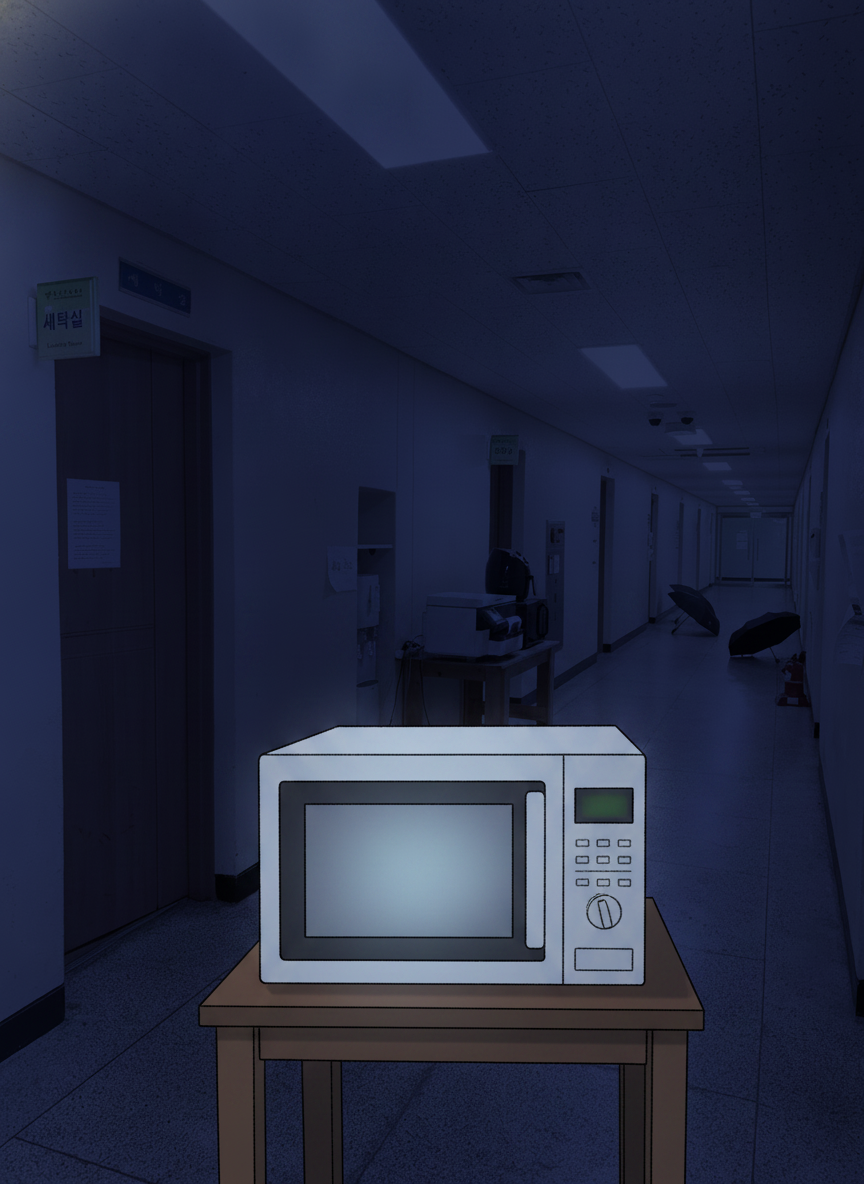
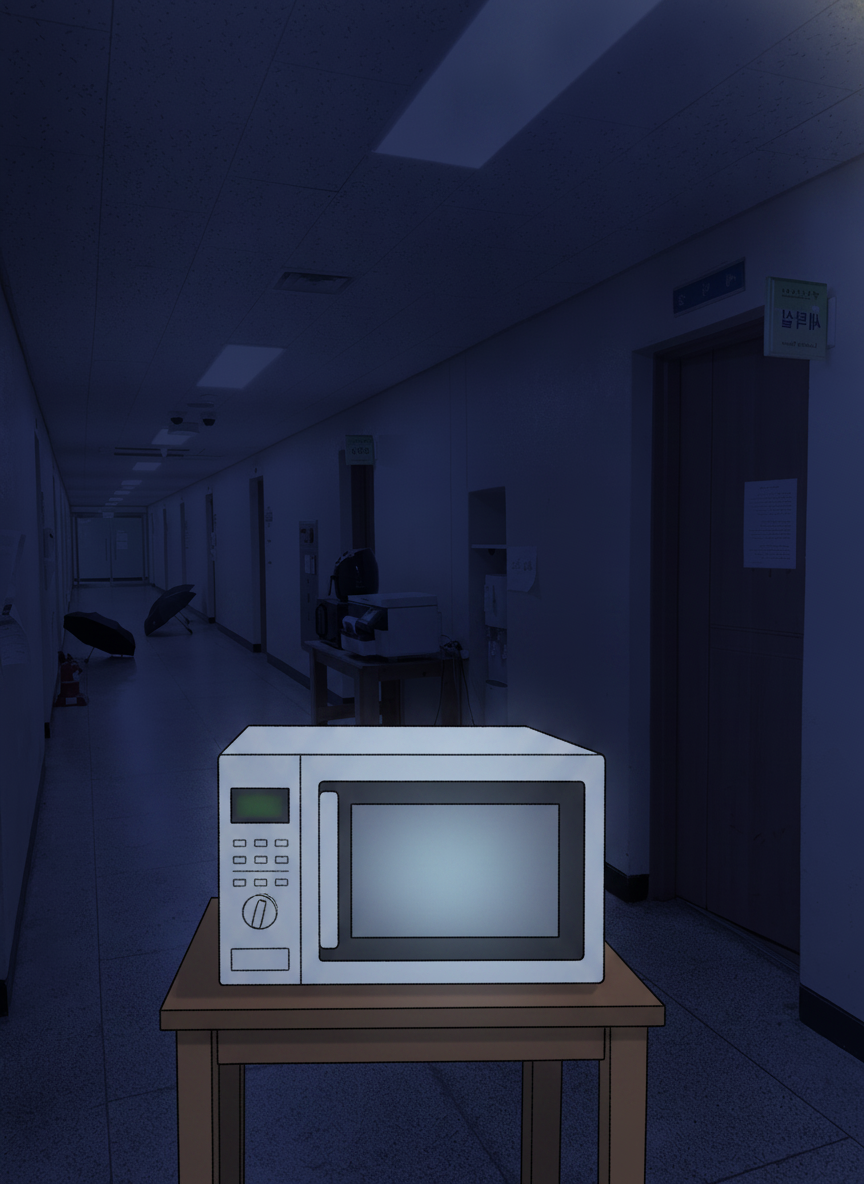
발끝 뜸 현상 수정·문 안쪽 열림·후배 선경례·전자레인지 복도 반전·카톡 장문 표시
캐릭터가 그림자 위로 떠 있던 버그 (전 씬 영향)
- 선 자세 기준으로 배율을 고정하면서 스프라이트 origin이 중앙(0.5, 0.6)이라,
  키가 짧은 포즈일수록 밑변이 올라가 발이 그림자 위에 떴다.
- origin을 **밑변(0.5, 1)** 으로 바꾸고 바닥선(FOOT_Y)에 붙였다 —
  어떤 배율·어떤 포즈여도 발끝이 그림자에 정확히 온다. 견장 좌표도 같은 기준으로 환산.

복도(Q2)
- 문이 **방 안쪽으로** 열린다: 경첩(복도 안쪽 모서리)에서 어두운 실내가 벌어졌다 닫힌다.
  복도 쪽으로 젖혀지면 사람이 나올 길을 막는 꼴이었다.
- 후배 경례를 여정 92% → **50%** 지점으로 앞당겨 내가 받아줄 시간을 준다.
- 후배가 경례하기 전에 내가 먼저 응대하면 쪽팔림 — 하트 차감.

전자레인지(Q3)
- 복도 배경을 **좌우반전**하고 좌표를 전부 뒤집었다. 다가오는 훈육관이 내 등에
  가려 안 보이던 문제 해결 — 이제 플레이어는 왼쪽, 복도는 오른쪽이다.
- 훈육관 경로를 복도 한가운데(x 330~470)로 잡아 플레이어와 겹치지 않는다.

Q4 도복 걷기
- 빨간 띠가 빠지고 검은 카라가 생겨 뛰기 프레임과 달라 깜빡이던 것 재생성.
  4프레임 모두 띠·카라 일치.

카톡(M1)
- 장문(tier 3) 답장이 `nowrap`으로 잘려 뭘 칠지 볼 수 없던 문제:
  폭에 맞춰 글자 크기를 줄이고, 그래도 작으면 두 줄로 눕힌다.
- 키보드가 올라올 때 라벨이 화면 위로 밀려 나가지 않도록 상한(minTop)에 라벨 높이 반영.

diff --git a/src/scenes/main/HallwayScene.ts b/src/scenes/main/HallwayScene.ts
@@ -45,6 +45,8 @@ const heightAt = (feetYPx: number): number => Math.max(40, (feetYPx - VANISH_Y) 
 const DOOR_DEPTHS = [0.58, 0.42, 0.28, 0.18] as const;
 /** 내 앞에 서는 지점 (조작 버튼 위) */
 const ARRIVE_K = 0.7;
+/** 후배가 경례를 올리는 시점 (여정 비율) — 내가 받아줄 여유를 남긴다 */
+const JUNIOR_SALUTE_U = 0.5;
 
 interface Visitor {
   cadet: Cadet;
@@ -56,6 +58,8 @@ interface Visitor {
   /** 걸어오는 데 걸리는 시간 */
   travelMs: number;
   resolved: boolean;
+  /** 후배가 이미 경례를 올렸는지 */
+  saluted: boolean;
 }
 
 /**
@@ -215,6 +219,7 @@ export class HallwayScene extends BaseMainScene {
       startedAtMs: this.elapsedMs + Q2_HALLWAY.stepOutMs,
       travelMs,
       resolved: false,
+      saluted: false,
     };
     // 복도 가운데로 걸어 나오는 한 걸음
     this.tweens.add({
@@ -227,21 +232,44 @@ export class HallwayScene extends BaseMainScene {
     this.spawned += 1;
   }
 
-  /** 문이 안쪽으로 열렸다 닫히는 표시 — 어디서 나왔는지 눈에 띄게 한다 */
+  /**
+   * 문이 **방 안쪽으로** 열렸다 닫힌다.
+   * 복도 쪽으로 젖혀지면 사람이 나오는 길을 막는 꼴이라, 경첩(복도 안쪽 모서리)에
+   * 붙여 놓고 어두운 실내가 그 자리에서 벌어졌다가 다시 닫히게 그린다.
+   */
   private flashDoor(k: number, side: -1 | 1): void {
     const feet = floorY(k);
     const h = heightAt(feet) * 1.15; // 문은 사람보다 조금 높다
     const w = h * 0.42;
     const x = wallX(k, side);
+    // 경첩은 복도 안쪽(소실점 쪽) 모서리 — 문짝이 방 안으로 젖혀지며 그쪽부터 열린다
+    const hingeX = x + (side === -1 ? w / 2 : -w / 2);
+    const dir = side === -1 ? -1 : 1; // 열리는 방향(경첩에서 바깥쪽 모서리로)
     const g = this.add.graphics().setDepth(4);
-    g.fillStyle(0x2a2118, 0.85);
-    g.fillRect(x - w / 2, feet - h, w, h);
-    g.lineStyle(3, 0x14141a, 1);
-    g.strokeRect(x - w / 2, feet - h, w, h);
-    this.tweens.add({
-      targets: g,
-      alpha: 0,
-      duration: Q2_HALLWAY.stepOutMs + 260,
+    const draw = (open: number): void => {
+      g.clear();
+      if (open <= 0.01) return;
+      const ow = w * open;
+      const left = dir === -1 ? hingeX - ow : hingeX;
+      // 열린 틈 = 불 꺼진 방 안
+      g.fillStyle(0x1a1510, 0.9);
+      g.fillRect(left, feet - h, ow, h);
+      g.lineStyle(3, 0x14141a, 1);
+      g.strokeRect(left, feet - h, ow, h);
+    };
+    const state = { open: 0 };
+    this.tweens.chain({
+      targets: state,
+      tweens: [
+        { open: 1, duration: 200, ease: 'Cubic.easeOut', onUpdate: () => draw(state.open) },
+        {
+          open: 0,
+          delay: Q2_HALLWAY.stepOutMs,
+          duration: 260,
+          ease: 'Cubic.easeIn',
+          onUpdate: () => draw(state.open),
+        },
+      ],
       onComplete: () => g.destroy(),
     });
   }
@@ -269,6 +297,18 @@ export class HallwayScene extends BaseMainScene {
     if (this.finished) return;
     const v = this.visitor;
     if (!v || v.resolved) return;
+
+    // 후배가 아직 경례를 안 올렸는데 내가 먼저 굽신거리면 그게 더 쪽팔린다.
+    // (선배는 반대로 내가 먼저 해야 하므로 이 규칙에서 제외)
+    if (v.kind === 'junior' && !v.saluted) {
+      v.resolved = true;
+      this.flashJudge('너무 빨라!', COLORS.warnCss);
+      speechBubble(this, v.cadet.x, v.cadet.y - 170, '(어...?)', 800);
+      this.loseHeart('후배가 경례하기도 전에 먼저 받아버렸다... 쪽팔림');
+      this.retire(v);
+      return;
+    }
+
     const correct: Action = v.kind === 'senior' ? 'salute' : 'greet';
 
     if (action !== correct) {
@@ -355,9 +395,12 @@ export class HallwayScene extends BaseMainScene {
     const x = Phaser.Math.Linear(wallX(k, v.side), VANISH_X + v.side * 40, Math.min(1, u * 1.6));
     this.place(v.cadet, k, x);
 
-    // 후배는 내 앞에 이르면 **먼저** 절도 있게 경례한다 (내가 인사로 받아야 한다)
-    if (v.kind === 'junior' && u >= 0.92) {
+    // 후배는 여정의 절반쯤에서 **먼저** 절도 있게 경례한다 —
+    // 내가 그걸 보고 인사로 받아줄 시간이 남아야 하므로 일찍 올린다.
+    if (v.kind === 'junior' && u >= JUNIOR_SALUTE_U && !v.saluted) {
+      v.saluted = true;
       v.cadet.setMotion('salute');
+      audio.tick();
     }
 
     // 선배는 데드라인을 넘어서는 순간 끝 — 내가 먼저 경례했어야 했다

diff --git a/src/scenes/main/MicrowaveScene.ts b/src/scenes/main/MicrowaveScene.ts
@@ -16,15 +16,21 @@ type Zone = 'laundry' | 'micro';
  * 멀리 있을수록 작아진다. 이 규칙으로 크기를 정하면 발이 바닥에 붙는다.
  */
 const HORIZON = 550;
+/**
+ * 배경(bg_micro)을 **좌우반전**했다.
+ * 전에는 복도가 내가 서 있는 쪽으로 뻗어 있어, 다가오는 훈육관이 내 등에 가려 안 보였다.
+ * 이제 복도는 내 반대편으로 뻗고, 아래 x좌표는 전부 화면 중앙 기준으로 뒤집은 값이다
+ * (x' = GAME_WIDTH − x).
+ */
 /** 전자레인지 (배경 픽셀에서 실측한 밝은 몸체 영역의 중심) */
-const OVEN_X = 461;
+const OVEN_X = GAME_WIDTH - 461;
 const OVEN_Y = 924;
 /** 세탁실 문 — 중심 x, 문턱(바닥) y, 문 높이 */
-const DOOR_X = 113;
+const DOOR_X = GAME_WIDTH - 113;
 const DOOR_FLOOR_Y = 1092;
 const DOOR_H = 724;
 /** 전자레인지 앞: 카메라 코앞이라 뒷모습 상반신만 화면에 들어온다 */
-const NEAR = { x: 618, y: 1162, scale: 3.4 } as const;
+const NEAR = { x: GAME_WIDTH - 618, y: 1162, scale: 3.4 } as const;
 /** 세탁실 문 안: 문 높이의 약 80%를 채우는 크기로 쏙 들어간다 */
 const HIDE_SCALE = (DOOR_H * 0.8) / 300;
 const HIDE = { x: DOOR_X, y: DOOR_FLOOR_Y - 120 * HIDE_SCALE, scale: HIDE_SCALE } as const;
@@ -76,12 +82,12 @@ export class MicrowaveScene extends BaseMainScene {
 
     // 심야 복도 배경 (실제 사진 기반) — 전자레인지는 복도, 세탁실은 왼쪽 문 안.
     // 세로 화면에 맞추며 좌우가 잘리므로 살짝 우측으로 밀어 '세탁실' 문과 복도 끝을 함께 담는다.
-    addSceneBg(this, 'bg_micro').x += 80;
+    addSceneBg(this, 'bg_micro').x -= 80;
     // 조리 중에만 켜지는 내부 조명 — 창 안쪽이 따뜻하게 밝아지는 것만으로 충분하다
     // (주변 원형 글로우와 🍜 이모티콘은 과해서 걷어냈다)
     this.ovenLight = this.add.graphics().setVisible(false);
     this.ovenLight.fillStyle(0xffd98a, 0.5);
-    this.ovenLight.fillRoundedRect(OVEN_X - 205, OVEN_Y - 80, 235, 165, 10);
+    this.ovenLight.fillRoundedRect(OVEN_X - 30, OVEN_Y - 80, 235, 165, 10);
     addVignette(this, 0.3);
 
     // 조리 게이지
@@ -115,7 +121,7 @@ export class MicrowaveScene extends BaseMainScene {
       .setDepth(30);
 
     this.beepText = this.add
-      .text(OVEN_X - 90, OVEN_Y - 160, '삐 ─ 완성!!', {
+      .text(OVEN_X + 90, OVEN_Y - 160, '삐 ─ 완성!!', {
         fontFamily: FONT,
         fontSize: '44px',
         color: COLORS.safeCss,
@@ -126,7 +132,7 @@ export class MicrowaveScene extends BaseMainScene {
       .setVisible(false);
 
     // 전투복+전투모+훈육 완장의 당직훈육관
-    this.senior = new Cadet(this, 690, 700, 'duty');
+    this.senior = new Cadet(this, 430, 700, 'duty');
     this.senior.setScale(0.3).setVisible(false).setDepth(6);
 
     // 나는 전자레인지를 마주 보고 서 있다 — 카메라 코앞이라 뒷모습 상반신만 보인다
@@ -167,11 +173,11 @@ export class MicrowaveScene extends BaseMainScene {
         const startFeet = randFloat(672, 700);
         const endFeet = chance(0.35) ? randFloat(980, 1060) : randFloat(850, 930);
         this.senior.setVisible(true).setMotion('walk');
-        this.placeOnFloor(this.senior, randFloat(630, 690), startFeet);
+        this.placeOnFloor(this.senior, randFloat(400, 470), startFeet);
         this.tweens.killTweensOf(this.senior);
         this.tweens.add({
           targets: this.senior,
-          x: randFloat(430, 560),
+          x: randFloat(330, 430),
           y: endFeet - 120 * this.scaleAt(endFeet),
           scale: this.scaleAt(endFeet),
           duration: Q3_MICROWAVE.reactMs(this.day) * 1.6,

diff --git a/src/utils/mobileInput.ts b/src/utils/mobileInput.ts
@@ -79,9 +79,12 @@ export function createHiddenInput(opts: HiddenInputOptions): HiddenInput {
       color: opts.label.color,
       fontWeight: 'bold',
       borderRadius: '12px',
-      padding: '0 10px',
-      whiteSpace: 'nowrap',
-      overflow: 'hidden',
+      padding: '4px 10px',
+      // 일차가 오르면 답장이 길어진다 — nowrap으로 두면 끝이 잘려 뭘 칠지 못 본다
+      whiteSpace: 'normal',
+      wordBreak: 'keep-all',
+      lineHeight: '1.2',
+      textAlign: 'center',
       zIndex: '30',
       pointerEvents: 'none',
     } satisfies Partial<CSSStyleDeclaration>);
@@ -97,18 +100,34 @@ export function createHiddenInput(opts: HiddenInputOptions): HiddenInput {
     const sy = r.height / GAME_HEIGHT;
     const rect = opts.rect ?? { x: 60, y: GAME_HEIGHT - 150, w: GAME_WIDTH - 120, h: 90 };
     const h = rect.h * sy;
-    const labelH = labelEl ? Math.max(30, h * 0.85) : 0;
+    const left = r.left + rect.x * sx;
+    const width = rect.w * sx;
+
+    // 따라 칠 문장이 길면 한 줄에 안 들어간다 — 폭에 맞춰 글자 크기를 줄이고,
+    // 그래도 작아지면 두 줄로 눕혀 라벨을 키운다. (잘려서 안 보이는 것이 최악)
+    const text = opts.label?.text ?? '';
+    const CHAR_W = 0.56; // 한글 기준 글자 폭 ≈ 글꼴 크기의 절반 남짓
+    const baseH = Math.max(30, h * 0.85);
+    let labelLines = 1;
+    let labelFont = Math.min(baseH * 0.5, width / Math.max(1, text.length * CHAR_W));
+    if (labelFont < 15 && text.length > 0) {
+      labelLines = 2;
+      labelFont = Math.min(baseH * 0.46, width / Math.max(1, (text.length / 2) * CHAR_W));
+    }
+    labelFont = Math.max(13, labelFont);
+    const labelH = labelEl ? Math.max(baseH, labelFont * 1.35 * labelLines + 8) : 0;
     const labelGap = labelEl ? 6 : 0;
+
     let top = r.top + rect.y * sy;
     // iOS는 키보드가 떠도 레이아웃 뷰포트가 안 줄어든다 — 키보드에 가려질 위치면
-    // 보이는 영역(visualViewport) 하단 바로 위로 끌어올린다 (라벨 포함)
+    // 보이는 영역(visualViewport) 하단 바로 위로 끌어올린다 (라벨 포함).
+    // 라벨이 화면 위로 밀려 나가지 않도록 라벨 높이까지 셈에 넣는다.
     const vv = window.visualViewport;
     if (vv) {
       const maxTop = vv.offsetTop + vv.height - h - 12;
-      if (top > maxTop) top = Math.max(12 + labelH + labelGap, maxTop);
+      const minTop = vv.offsetTop + labelH + labelGap + 12;
+      if (top > maxTop) top = Math.max(minTop, maxTop);
     }
-    const left = r.left + rect.x * sx;
-    const width = rect.w * sx;
     el.style.left = `${left}px`;
     el.style.top = `${top}px`;
     el.style.width = `${width}px`;
@@ -119,7 +138,7 @@ export function createHiddenInput(opts: HiddenInputOptions): HiddenInput {
       labelEl.style.width = `${width}px`;
       labelEl.style.height = `${labelH}px`;
       labelEl.style.top = `${top - labelH - labelGap}px`;
-      labelEl.style.fontSize = `${Math.max(15, Math.round(labelH * 0.48))}px`;
+      labelEl.style.fontSize = `${Math.round(labelFont)}px`;
     }
   };
 

diff --git a/src/ui/Characters.ts b/src/ui/Characters.ts
@@ -35,6 +35,12 @@ export interface CadetStyle {
 
 /** 캐릭터가 컨테이너 scale 1일 때의 표시 높이(px) — 씬 setScale이 여기에 곱해진다. */
 const BASE_H = 300;
+/**
+ * 컨테이너 로컬 좌표에서 **발이 닿는 바닥선**. 그림자도 여기 놓인다.
+ * 스프라이트를 이 선에 '밑변 기준'으로 붙여야, 자세마다 키가 달라도 발이 뜨지 않는다.
+ * (선 자세 기준으로 배율을 고정하면서 origin이 중앙이면 짧은 포즈가 공중에 뜬다)
+ */
+const FOOT_Y = BASE_H * 0.4;
 
 const LABELS: Record<CadetKind, string> = {
   player: '생도 (2학년)',
@@ -127,10 +133,11 @@ export class Cadet extends Phaser.GameObjects.Container {
     this.visitorRank = styleOverride?.visitorRank;
 
     // 스프라이트는 여백을 트림해 두어 밑변 = 발끝 → 그림자를 정확히 발밑에 둔다 (둥둥 뜨는 것 방지)
-    this.shadow = scene.add.ellipse(0, BASE_H * 0.4, BASE_H * 0.3, BASE_H * 0.06, 0x2b5f9e, 0.22);
+    this.shadow = scene.add.ellipse(0, FOOT_Y, BASE_H * 0.3, BASE_H * 0.06, 0x2b5f9e, 0.22);
     this.add(this.shadow);
 
-    this.sprite = scene.add.image(0, 0, this.texFor('idle')).setOrigin(0.5, 0.6);
+    // origin을 '밑변'으로 두고 바닥선에 붙인다 — 어떤 배율이든 발끝이 그림자에 정확히 온다
+    this.sprite = scene.add.image(0, FOOT_Y, this.texFor('idle')).setOrigin(0.5, 1);
     this.add(this.sprite);
 
     if (showLabel) {
@@ -162,9 +169,9 @@ export class Cadet extends Phaser.GameObjects.Container {
     const texH = src.height || 1;
     const dispH = BASE_H;
     const dispW = (texW / texH) * dispH;
-    // 텍스처 비율 → 컨테이너 로컬 좌표 (스프라이트 origin 0.5, 0.6)
+    // 텍스처 비율 → 컨테이너 로컬 좌표 (스프라이트는 밑변이 FOOT_Y에 붙어 있다)
     const lx = (fx: number): number => (fx - 0.5) * dispW;
-    const ly = (fy: number): number => (fy - 0.6) * dispH;
+    const ly = (fy: number): number => FOOT_Y - (1 - fy) * dispH;
 
     const g = this.scene.add.graphics();
     const boardW = 0.135 * dispW;
@@ -272,7 +279,7 @@ export class Cadet extends Phaser.GameObjects.Container {
     this.cycleTimer = null;
     this.idleTween?.remove();
     this.idleTween = null;
-    this.sprite.setPosition(0, 0);
+    this.sprite.setPosition(0, FOOT_Y);
 
     this.shadow.setVisible(!LYING.has(motion));
 
@@ -305,7 +312,7 @@ export class Cadet extends Phaser.GameObjects.Container {
     if (motion === 'idle' || motion === 'dance') {
       this.idleTween = this.scene.tweens.add({
         targets: this.sprite,
-        y: motion === 'dance' ? -8 : -4,
+        y: FOOT_Y + (motion === 'dance' ? -8 : -4),
         duration: motion === 'dance' ? 300 : 750,
         yoyo: true,
         repeat: -1,
